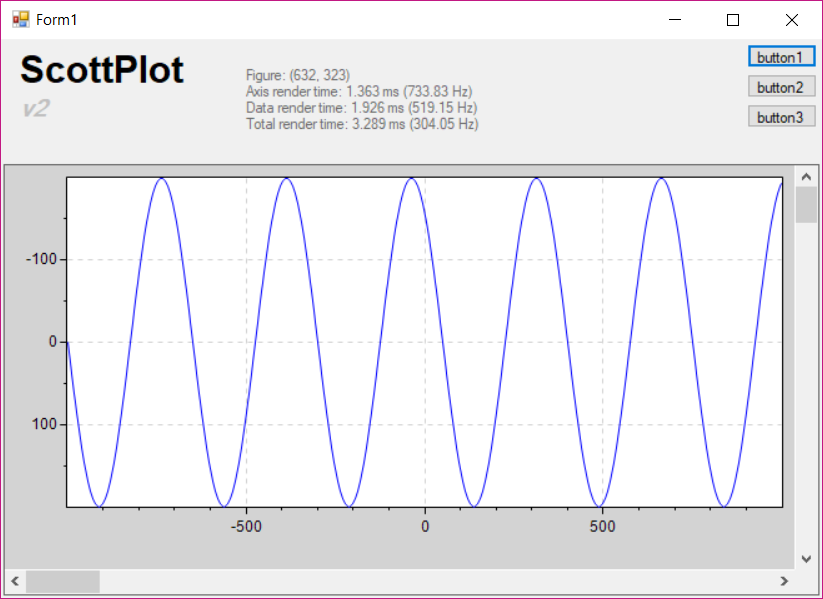
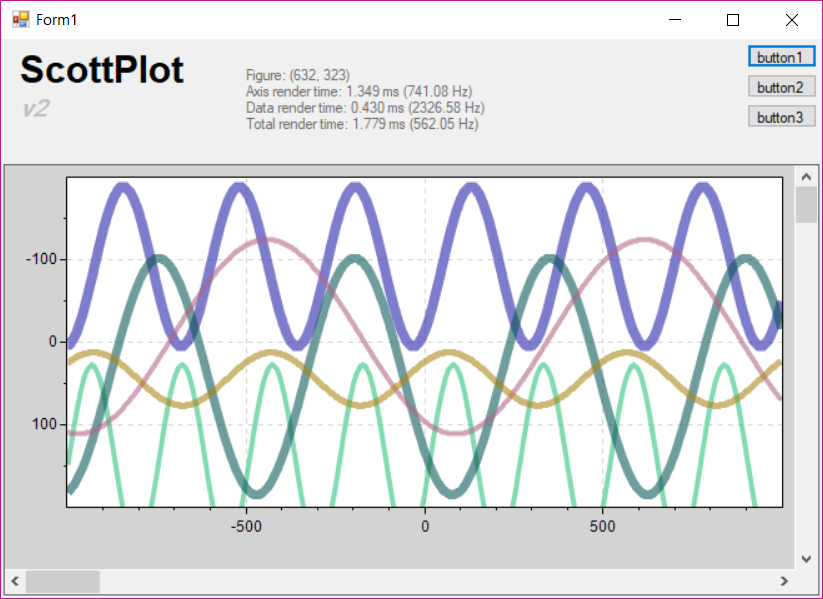
overlapping plots

diff --git a/src/ScottPlotV2/ScottPlotV2/ScottPlot.cs b/src/ScottPlotV2/ScottPlotV2/ScottPlot.cs
@@ -23,7 +23,8 @@ namespace ScottPlotV2
         private double axis_left, axis_top, axis_width, axis_height;
         private double px_per_unit_y, px_per_unit_x, units_per_px_x, units_per_px_y;
 
-        private Bitmap bmp_frame; // starting point for any data rendering
+        private Bitmap bmp_frame;
+        private Bitmap bmp_data;
 
         // customization
         private Color color_figure_background = Color.LightGray;
@@ -36,6 +37,8 @@ namespace ScottPlotV2
         private System.Drawing.Drawing2D.SmoothingMode smoothing_mode_frame = System.Drawing.Drawing2D.SmoothingMode.AntiAlias;
         private System.Drawing.Drawing2D.SmoothingMode smoothing_mode_data = System.Drawing.Drawing2D.SmoothingMode.AntiAlias;
 
+        // it helps to keep this running
+        private Random rand = new Random();
 
         /// <summary>
         /// Create a new ScottPlot object.
@@ -166,6 +169,57 @@ namespace ScottPlotV2
 
             stopwatch.Stop();
             time_redraw_axis_ms = (double)stopwatch.ElapsedTicks / System.Diagnostics.Stopwatch.Frequency * 1000.0;
+
+            PlotClear();
+        }
+
+        /// <summary>
+        /// Reset the data area clearing all graphs
+        /// </summary>
+        public void PlotClear()
+        {
+            bmp_data = new Bitmap(plot_width, plot_height);
+            Graphics gfx = Graphics.FromImage(bmp_data);
+            gfx.Clear(Color.Transparent);
+            gfx.Dispose();
+        }
+
+        public void PlotDemo2()
+        {
+            Stopwatch stopwatch = new Stopwatch();
+            stopwatch.Restart();
+
+            Graphics gfx = Graphics.FromImage(bmp_data);
+            gfx.SmoothingMode = smoothing_mode_data;
+
+            Point[] points = new Point[plot_width];
+            double offset = rand.NextDouble() * 200 + 50;
+            double frequency = rand.NextDouble() * .1+.01;
+            double amplitude = rand.NextDouble() * 100 + 10;
+
+            for (int x = 0; x < points.Length; x++)
+            {
+                double y = Math.Sin((double)x * frequency + offset) * amplitude + offset;
+                points[x] = new Point(x, (int)y);
+            }
+
+            Color randomColor = Color.FromArgb(150, rand.Next(200), rand.Next(200), rand.Next(200));
+            int penWidth = rand.Next(10);
+            Pen pen = new Pen(randomColor, penWidth+2);
+            gfx.DrawLines(pen, points);
+            gfx.Dispose();
+
+            stopwatch.Stop();
+            time_redraw_data_ms = (double)stopwatch.ElapsedTicks / System.Diagnostics.Stopwatch.Frequency * 1000.0;
+        }
+
+        public Bitmap GetBitmap()
+        {
+            //TODO: I think start to finish we are using RGBA. We could drop to 1-channel uint8
+            Bitmap bmp_merged = new Bitmap(bmp_frame);
+            Graphics gfx = Graphics.FromImage(bmp_merged);
+            gfx.DrawImage(bmp_data, new Point(plot_left, plot_top));
+            return bmp_merged;
         }
 
         private int UnitToPx_X(double unit)
@@ -342,52 +396,7 @@ namespace ScottPlotV2
             if (axisSpan < 10) return string.Format("{0:0.0}", value);
             return string.Format("{0:0}", value);
         }
-
-
-
-
-
-
-
-
-
-
-
-
-
-        /// <summary>
-        /// Demo is an alternative to sending actual data to plot
-        /// </summary>
-        /// <returns>final bitmap figure</returns>
-        public Bitmap PlotDemoSine()
-        {
-            Stopwatch stopwatch = new Stopwatch();
-            stopwatch.Restart();
-
-            Bitmap bmp_live = new Bitmap(bmp_frame); // start with the pre-drawn axis
-            Graphics gfx = Graphics.FromImage(bmp_live);
-            gfx.SmoothingMode = smoothing_mode_data;
-
-            Random rand = new Random();
-            Point[] points = new Point[plot_width];
-
-            for (int i = 0; i < points.Length; i++)
-            {
-                double y = Math.Sin((double)i * Math.PI / 50.0) * plot_height * .5 + plot_height * .5 + plot_top;
-                int x = plot_left + i;
-                points[i] = new Point(x, (int)y);
-            }
-
-            Pen pen = new Pen(color_data);
-            gfx.DrawLines(pen, points);
-            gfx.Dispose();
-
-            stopwatch.Stop();
-            time_redraw_data_ms = (double)stopwatch.ElapsedTicks / System.Diagnostics.Stopwatch.Frequency * 1000.0;
-
-            return bmp_live;
-        }
-
+        
 
 
     }

diff --git a/src/ScottPlotV2/ScottPlotV2/Form1.cs b/src/ScottPlotV2/ScottPlotV2/Form1.cs
@@ -30,7 +30,11 @@ namespace ScottPlotV2
         {
             if (scottPlot == null) return;
             scottPlot.Resize(pictureBox1.Width, pictureBox1.Height);
-            pictureBox1.Image = scottPlot.PlotDemoSine();
+            for (int i=0; i<5; i++)
+            {
+                scottPlot.PlotDemo2();
+            }
+            pictureBox1.Image = scottPlot.GetBitmap();
             richTextBox1.Text = scottPlot.Info();
         }
 
